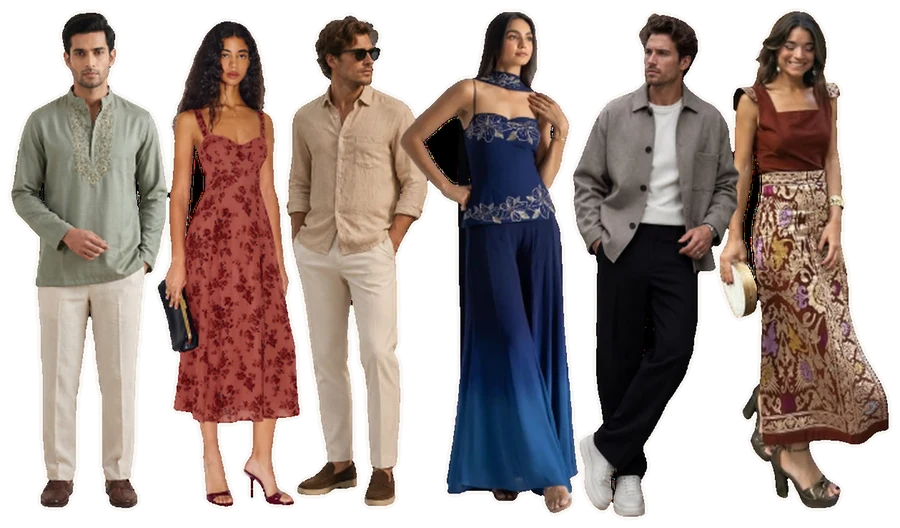
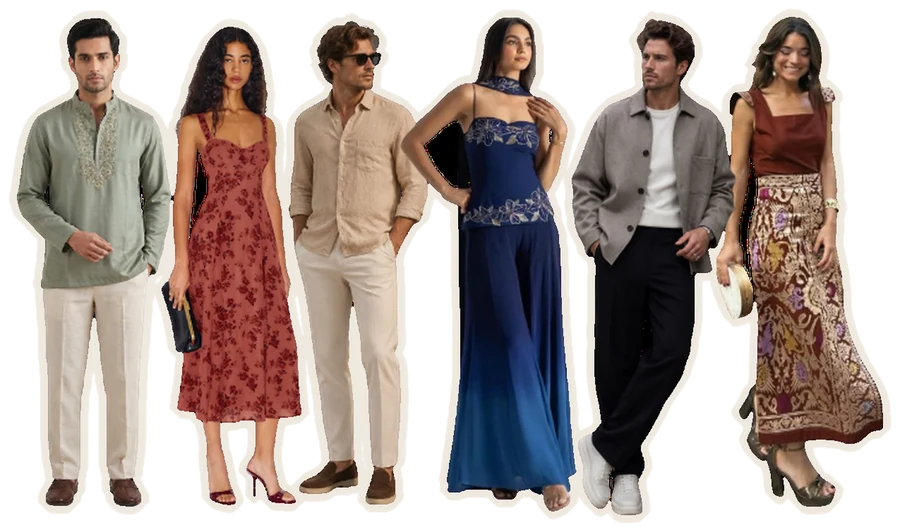
Match attire slide heights and thicken the Friday Night sticker border.

Changed region(s): [[0.0, 0.0, 0.9956, 1.0], [0.7156, 0.7576, 0.7467, 0.8788], [0.4044, 0.2727, 0.4356, 0.303]]

diff --git a/index.html b/index.html
@@ -660,8 +660,8 @@ a:focus-visible{outline:none;}
 .swatches{display:flex;flex-wrap:wrap;gap:10px;list-style:none;margin:22px 0 0;padding:0;}
 .attire picture + .swatches{margin:0 0 clamp(22px,2.8vw,34px);}
 .swatches li{width:22px;height:22px;border-radius:50%;background:var(--c);box-shadow:0 0 0 1px rgba(234,227,214,.28);}
-.attire picture{display:block;margin:clamp(8px,1.5vw,20px) 0 clamp(20px,2.6vw,32px);}
-.attire img{display:block;width:100%;height:auto;filter:drop-shadow(0 18px 28px rgba(0,0,0,.5));}
+.attire picture{display:block;width:100%;aspect-ratio:900/547;margin:clamp(8px,1.5vw,20px) 0 clamp(20px,2.6vw,32px);}
+.attire img{display:block;width:100%;height:100%;object-fit:contain;object-position:center bottom;filter:drop-shadow(0 18px 28px rgba(0,0,0,.5));}
 
 /* a salon-style gallery wall before Events: inner edges line up with an even gap, each frame hung slightly off true */
 .wall{position:relative;width:min(66rem,100%);aspect-ratio:100/55;margin:var(--air) auto 0;}
